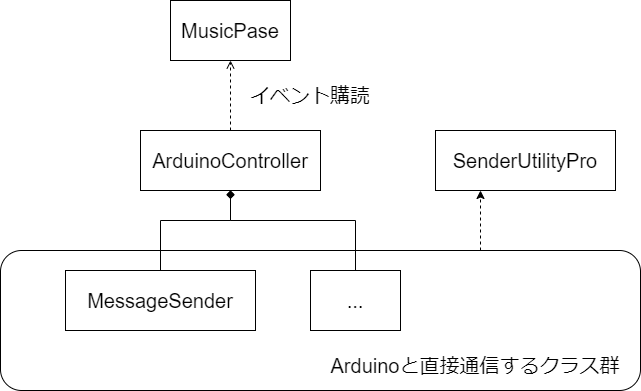
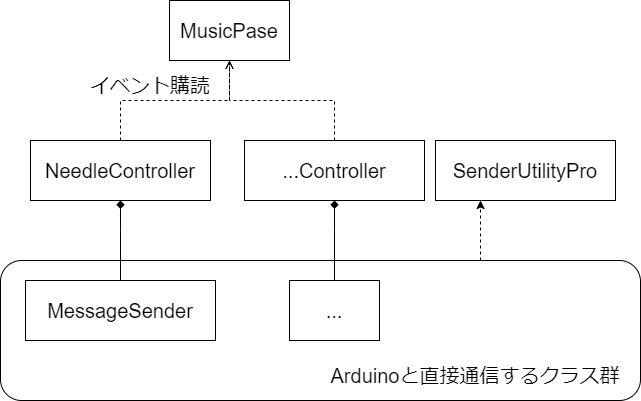
add INeedle

diff --git a/Scripts/Tests/ArduinoController/NeedleControllerTest.cs b/Scripts/Tests/ArduinoController/NeedleControllerTest.cs
@@ -4,10 +4,12 @@ using UnityEngine.TestTools.Utils;
 using UnityEngine.TestTools;
 using UnityEngine;
 
-public class ArduinoControllerTest
+public class NeedleControllerTest
 {
     public IEnumerator ArduinoControllTest()
     {
+        var musicPaseGO = new GameObject("MusicPase");
+        var musicPase = musicPaseGO.AddComponent<MockMusicPase>();
         yield return null;
     }
 }

diff --git a/Scripts/ArduinoControll/INeedle.cs b/Scripts/ArduinoControll/INeedle.cs
@@ -1,0 +1,11 @@
+/// <summary>
+/// 針を操作するクラスに共通のクラス
+/// </summary>
+public interface INeedle
+{
+    /// <summary>
+    /// 針の示す値を変更する。
+    /// </summary>
+    /// <param name="v">針が示す値。下端が0、上端が1</param>
+    public void SetValue(float v);
+}

diff --git a/Scripts/ArduinoControll/NeedleController.cs b/Scripts/ArduinoControll/NeedleController.cs
@@ -1,0 +1,9 @@
+using UnityEngine;
+
+/// <summary>
+/// MusicPaseからのイベントを購読して
+/// </summary>
+public class NeedleController : MonoBehaviour
+{
+
+}
